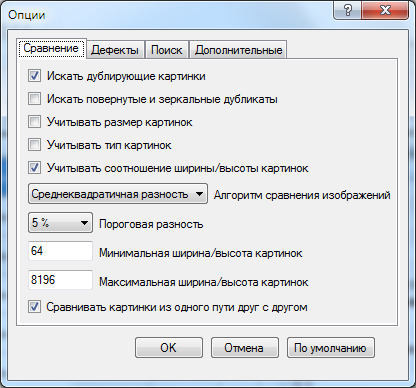
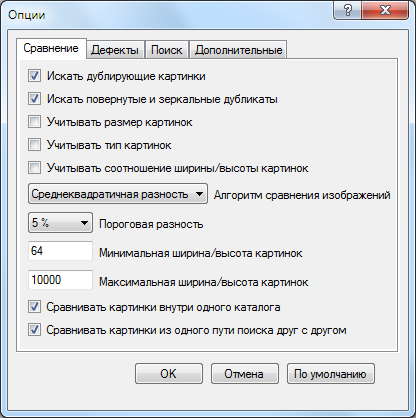
Update help.

diff --git a/data/help/english/options.html b/data/help/english/options.html
@@ -85,8 +85,13 @@ The default setting is 64.
 This option allows you to exclude from the search too large images.
 The default setting is 8192. 
  </p></li>
+  <li><p align="justify">
+<b>Compare images inside one directory</b> - when this option is enabled, the program compares with each other the pictures located both in one directory and in the different.
+Otherwise, the program will compare among themselves only the images which aren't lying in one directory.
+By default, this option is disabled.
+ </p></li>
  <li><p align="justify">
-<b>Compare images from one path with one another</b> - when this option is enabled, the program compares one with another pictures that are located in the same <a href="index.html?page=paths.html" target="_top">search path</a>. 
+<b>Compare images from one path of search with one another</b> - when this option is enabled, the program compares one with another pictures that are located in the same <a href="index.html?page=paths.html" target="_top">search path</a>. 
 Otherwise, the program will only compare the images from different search paths.
 By default, this option is disabled.
  </p></li>

diff --git a/data/help/english/menu.html b/data/help/english/menu.html
@@ -121,8 +121,7 @@ The operation "Refresh results" is needed to remove these invalid links from the
 This item is duplicated by button of the <a href="index.html?page=toolbar.html" target="_top">Tool Bar</a>.
  </p></li>
   <li><p align="justify">
-<b>Refresh database of image</b> - selecting the item, you can update a database of images.
-It is sometimes necessary to do in order to optimize its size.
+<b>Delete irrelevant records from a database of image</b> - selecting the item, you can remove from a database of images of record relating to images which were moved or removed. It is sometimes necessary to do in order to optimize its size.
  </p></li>
  <li><p align="justify">
 <b>Paths</b> - opens <a href="index.html?page=paths.html" target="_top">Paths Window</a> or its simplified version. 

diff --git a/data/help/english/paths.html b/data/help/english/paths.html
@@ -95,7 +95,7 @@ Note that the Ignore Path has priority over the Search Path, because if the path
 <p align="justify">
 If you had search previously in the specified directory, 
 then it will be unreasonable to compare again pictures with each other, and also to check for defects.
-To avoid this, you must use the paths from the <b>Valid</b> tab.
+To avoid this, you must use the paths from the <b>Valid</b> tab. Pictures lying in valid paths are compared only with not lying there.
 Literate tuning of these pathways can significantly reduce the search time, 
 such as in the case when we compare the new directory with the previously tested directories.
 </p>

diff --git a/data/help/english/table.html b/data/help/english/table.html
@@ -51,6 +51,9 @@ This can be:
 <b>Group</b> - searched pairs of duplicate images can be combined into groups with similar results.
 This column displays the number of such groups. 
  </p></li>
+  <li><p align="justify">
+<b>Size of group</b> - This column displays the size of group. 
+ </p></li>
  <li><p align="justify">
 <b>Difference</b> - it displays the percentage mean-square difference of content of pictures of duplicate pair.
 If the images are fully identical, the difference is shown in green.

diff --git a/data/help/english/preview.html b/data/help/english/preview.html
@@ -149,6 +149,12 @@ Open the picture with using an external picture viewer.
 View the directory, which contains the current image.
   </p></li>
   <li><p align="justify">
+Add image to the ignored.
+  </p></li>
+    <li><p align="justify">
+Add directory of image to the ignored paths. The same can be made and on a tab ignore, windows of a choice of paths.
+  </p></li>
+  <li><p align="justify">
 Rename or move current image.
   </p></li>
   <li><p align="justify">

diff --git a/src/AntiDupl/AntiDupl.NET/StringsDefaultEnglish.cs b/src/AntiDupl/AntiDupl.NET/StringsDefaultEnglish.cs
@@ -186,7 +186,7 @@ namespace AntiDupl.NET
 
             s.ResultsListView_Type_Column_Text = "Type";
             s.ResultsListView_Group_Column_Text = "Group";
-            s.ResultsListView_GroupSize_Column_Text = "Group size";
+            s.ResultsListView_GroupSize_Column_Text = "Size of group";
             s.ResultsListView_Difference_Column_Text = "Difference";
             s.ResultsListView_Defect_Column_Text = "Defect type";
             s.ResultsListView_Transform_Column_Text = "Transformation";

diff --git a/src/AntiDupl/AntiDupl/adImageDataStorage.cpp b/src/AntiDupl/AntiDupl/adImageDataStorage.cpp
@@ -132,9 +132,16 @@ namespace ad
 			size_t i = 0;
 			for(TIndex::iterator it = index.begin(); it != index.end(); ++it)
 			{
+				if(m_pStatus->Stopped())
+				{
+					m_pStatus->Reset();
+					return AD_ERROR_UNKNOWN;
+				}
+
 				if(it->second.type == TData::Old)
 				{
-					LoadData(it->second, path, it->second.key);
+					if (!LoadData(it->second, path, it->second.key))
+						return AD_ERROR_UNKNOWN;
 					m_pStatus->SetProgress(i, size);
 					i += it->second.size;
 				}
